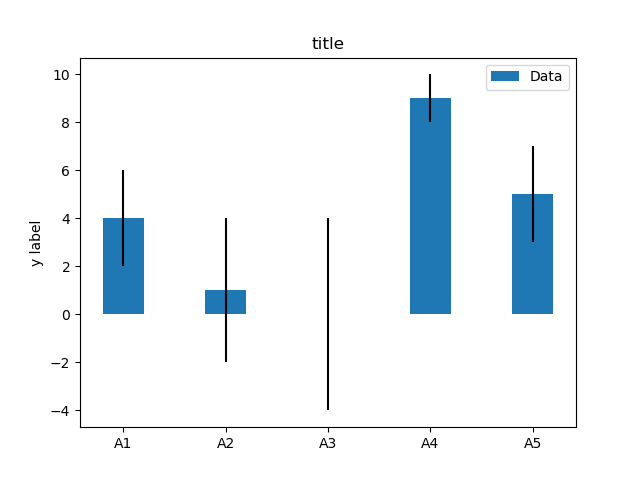
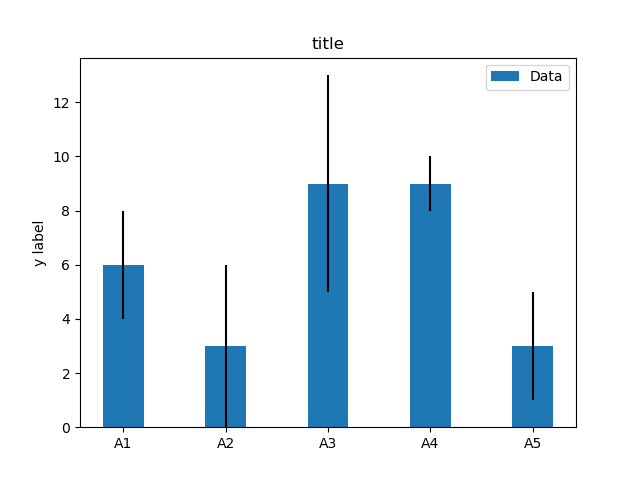
first commit

diff --git a/example.py b/example.py
@@ -2,7 +2,7 @@ import numpy as np
 import matplotlib.pyplot as plt
 
 labels = ['A1', 'A2', 'A3', 'A4', 'A5']
-m_means = [4,1,0,9,5]
+m_means = [6,3,9,9,3]
 m_std = [2, 3, 4, 1, 2]
 width = 0.40       # the width of the bars
 

diff --git a/README.md b/README.md
@@ -1,4 +1,4 @@
-# Matplotlib no 68 
+# Matplotlib no 69 
 
 python example
 
